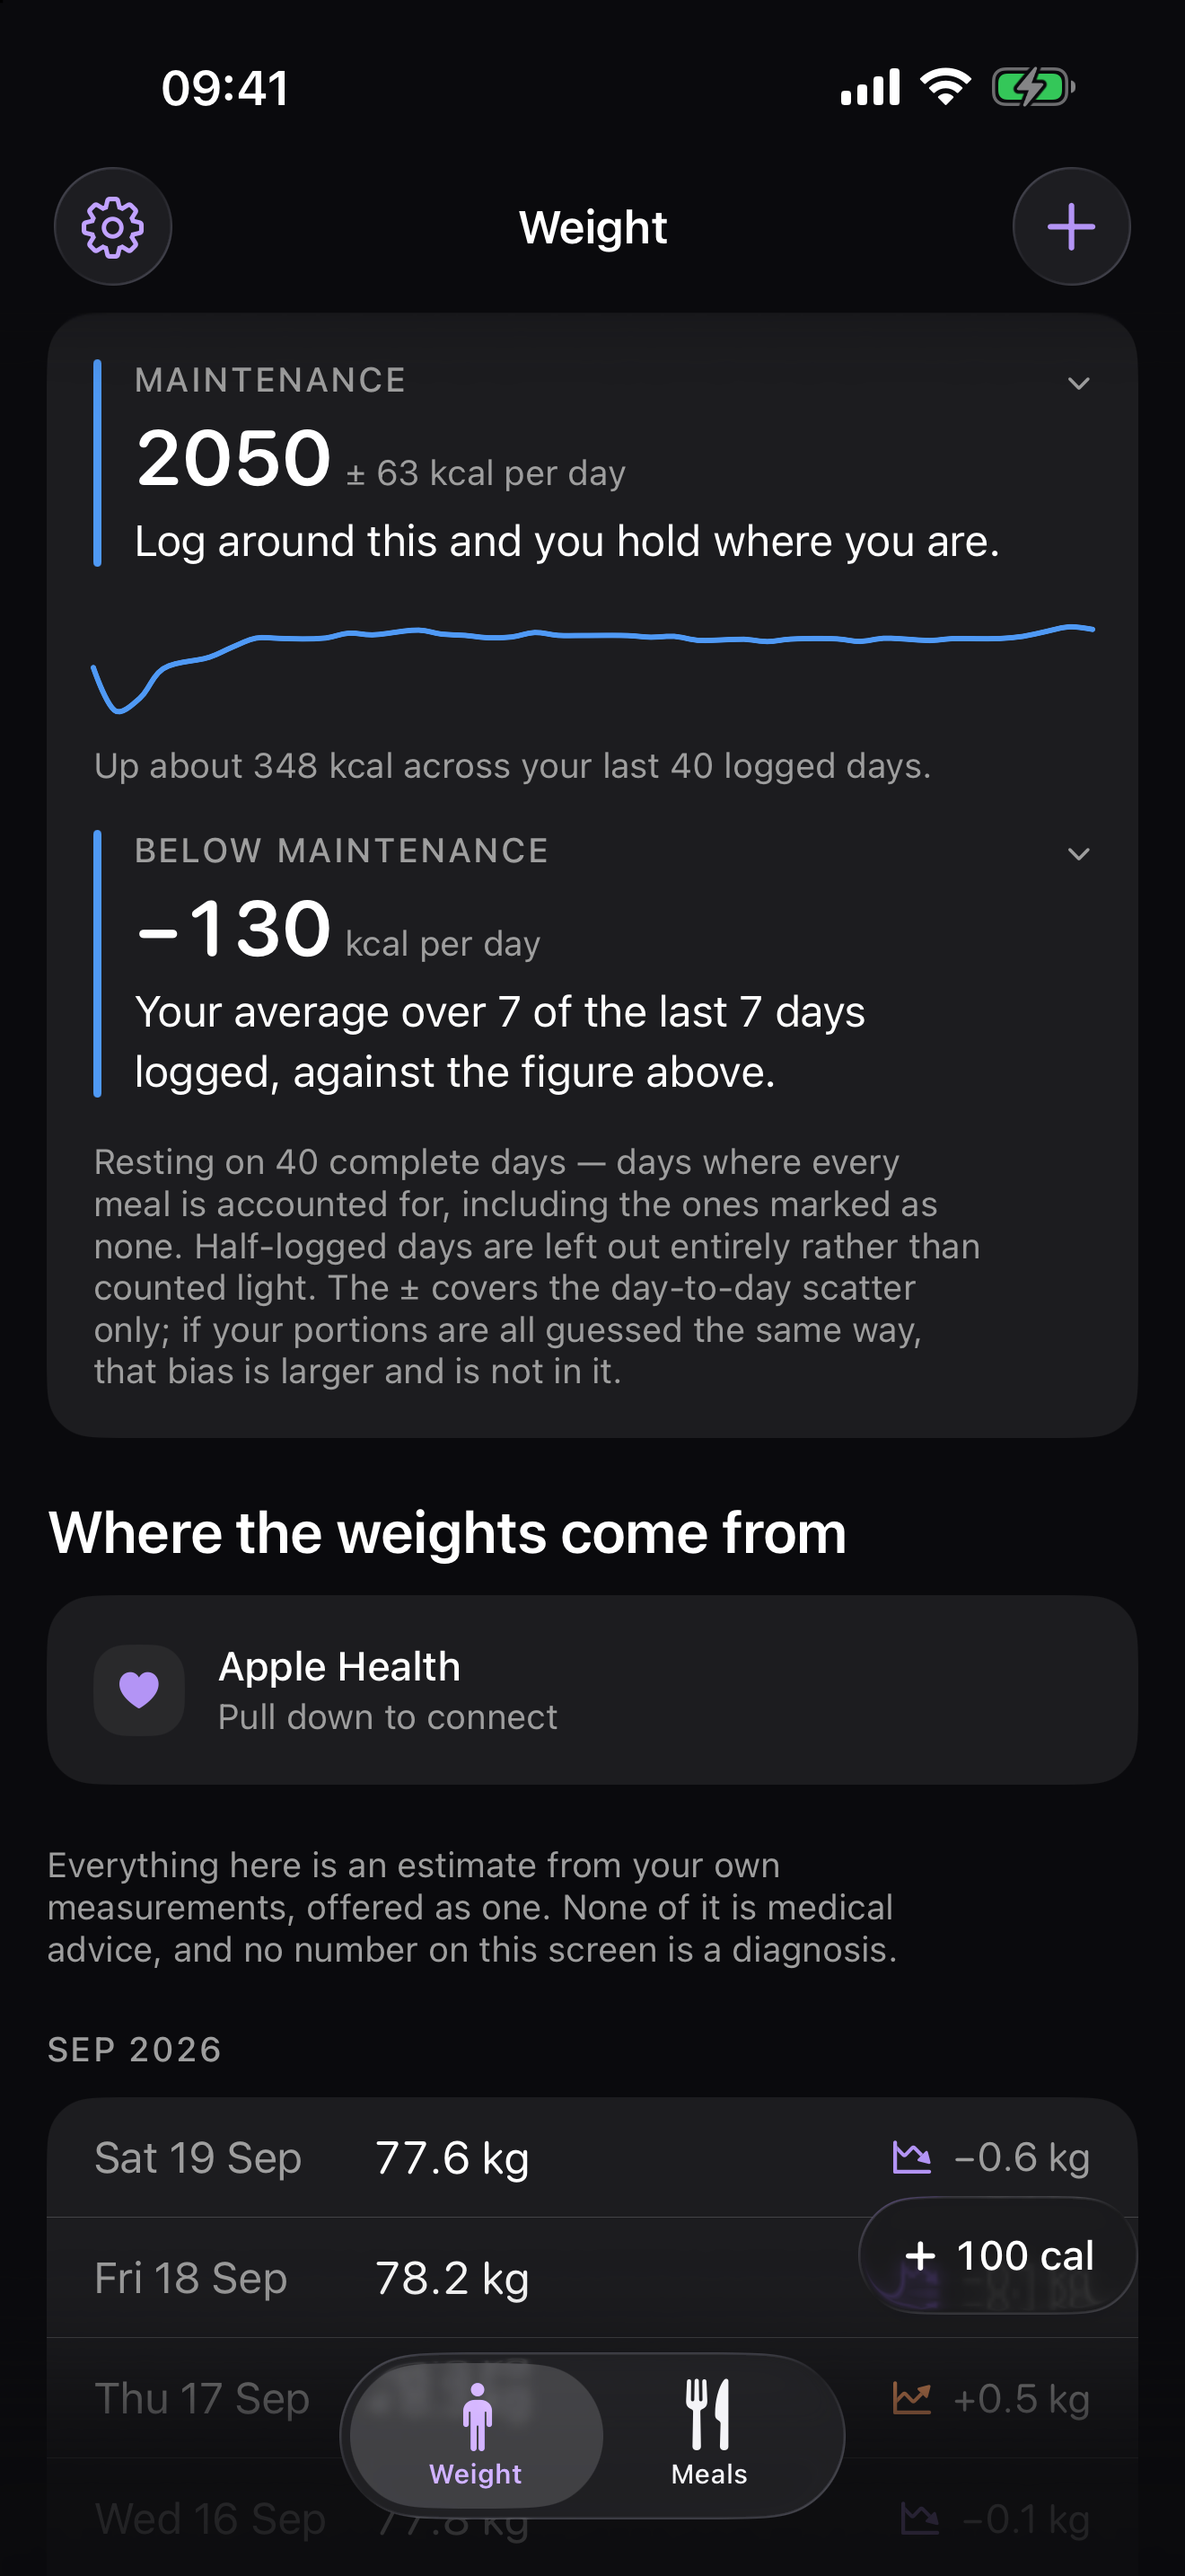
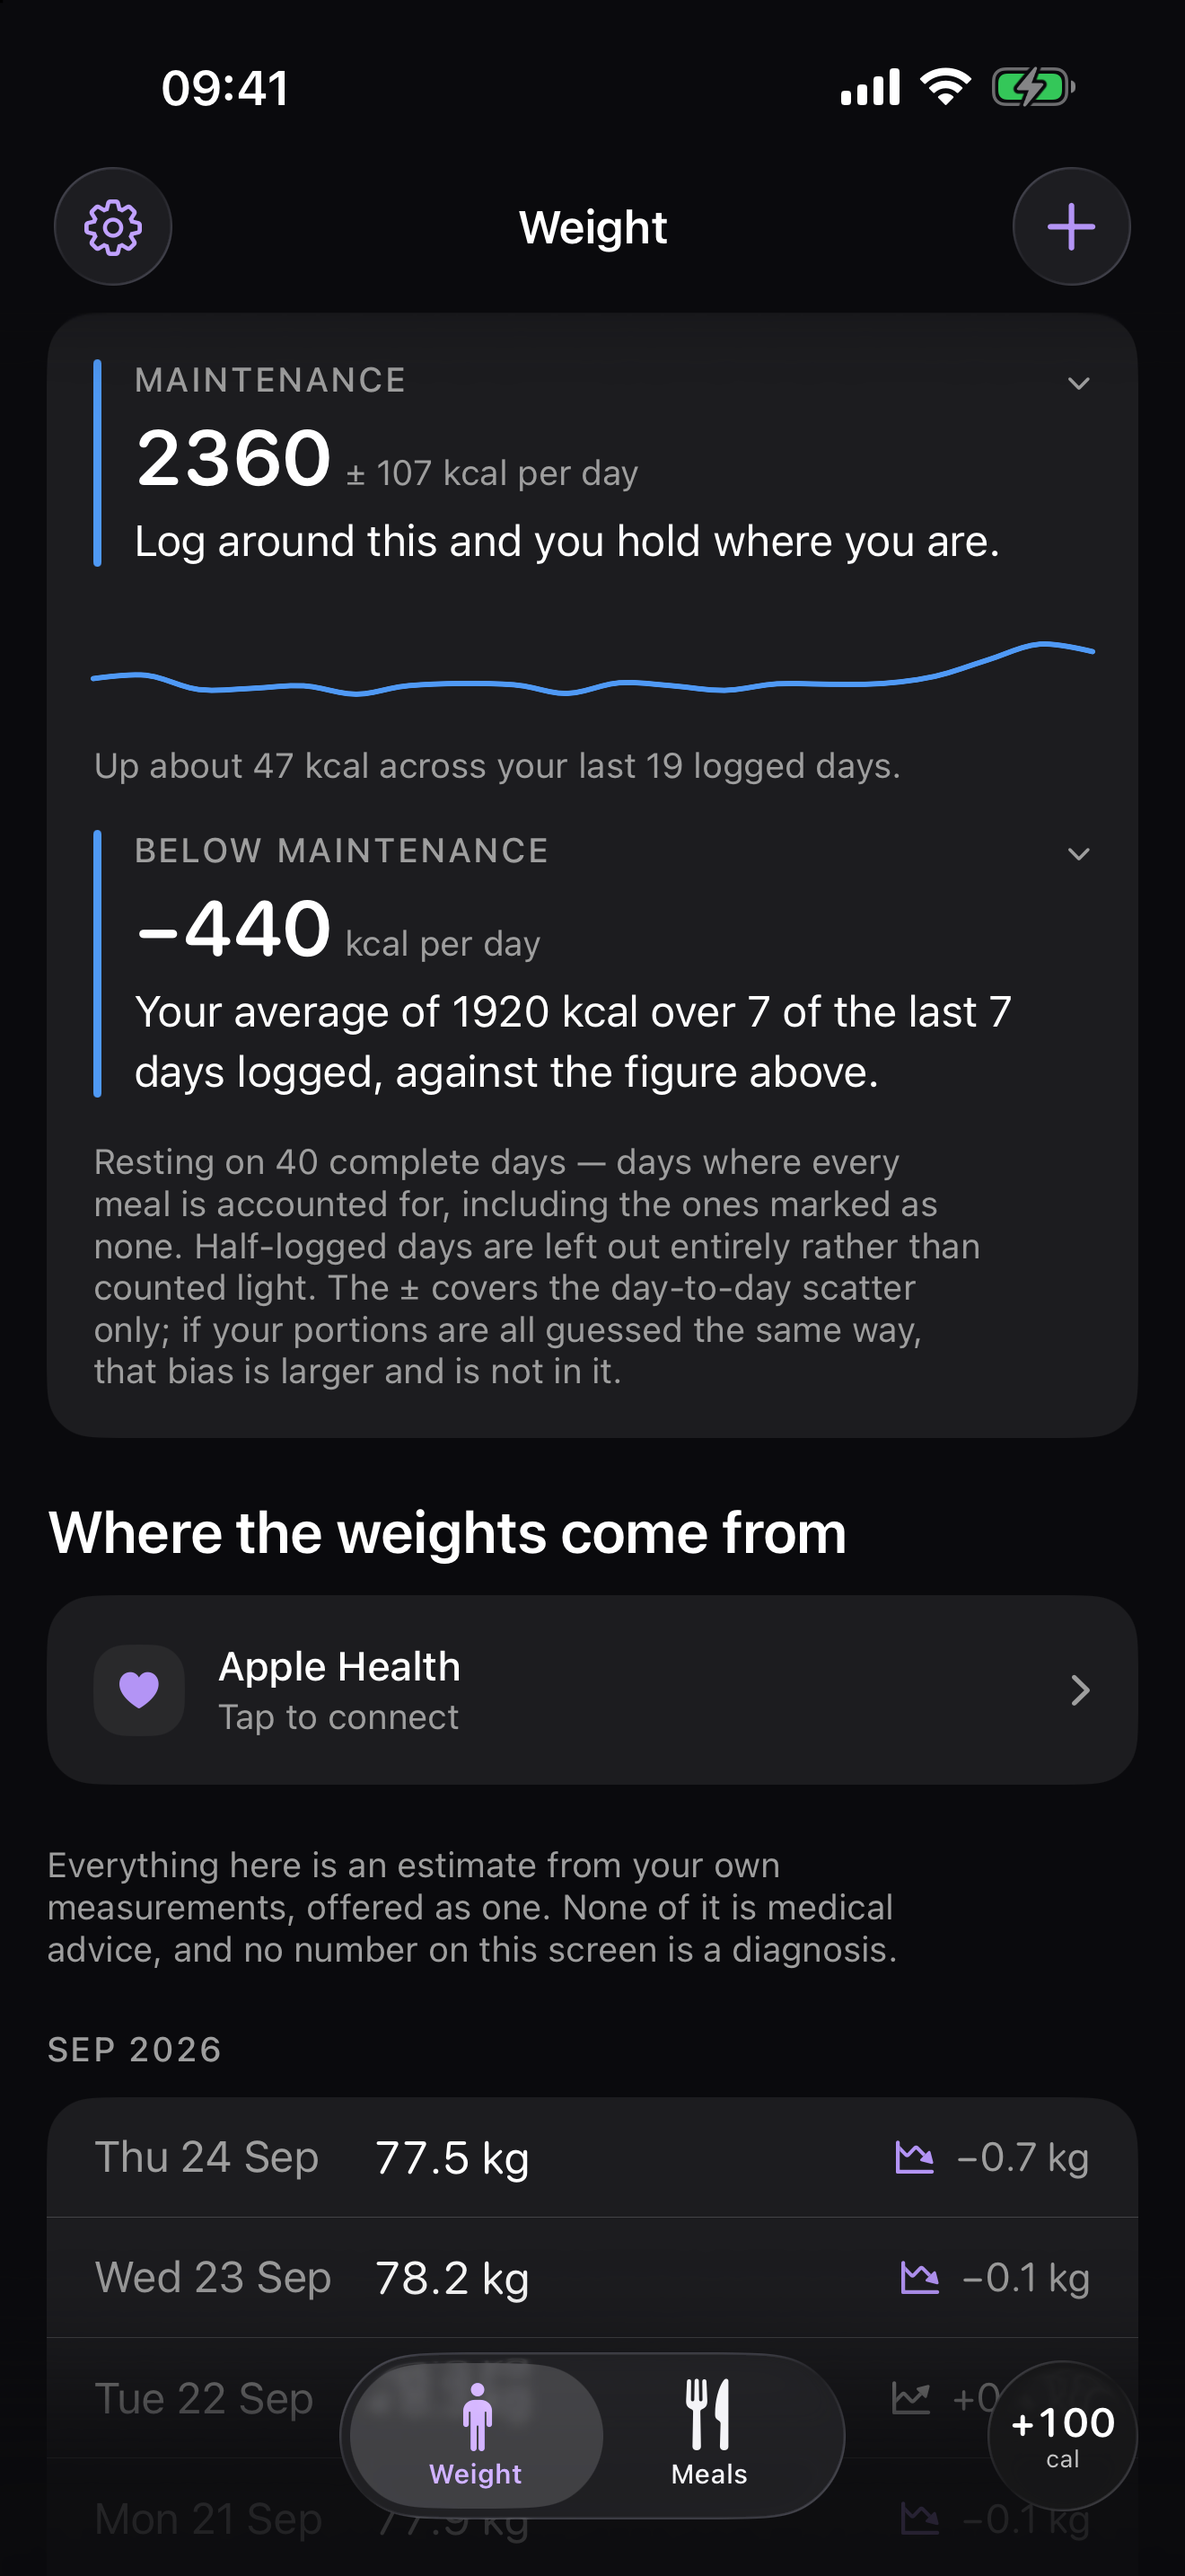
update health

diff --git a/index.html b/index.html
@@ -64,7 +64,7 @@
 <body>
 <main>
 
-  <p class="eyebrow">iPhone · Apple Health · no account</p>
+  <p class="eyebrow">iPhone &amp; iPad · Apple Health · no account</p>
   <h1>Calories, roughly.<br>Weight, precisely.</h1>
   <p class="lead">Ballpark Figure is a scale, made useful.</p>
 
@@ -73,15 +73,16 @@
   for tracking noisy signals — and draws the line underneath, with the rate of
   change it implies.</p>
 
-  <p>It logs food too, <strong>deliberately badly</strong>. You tap one of four
-  buckets for each meal — small, normal, large, huge — and snacks add up rather
+  <p>It logs food too, <strong>deliberately roughly</strong>. For each meal you
+  tick a portion — small, medium or large, with a nudge either way for a tiny or a
+  huge one — or <strong>none</strong>, if you skipped it. Snacks add up rather
   than replacing each other. That is the whole input. No barcode scanner, no food
   database, no photograph analysed by a model that returns “642 kcal” as though
   it had measured something.</p>
 
   <div class="shots">
     <img src="trend.png" alt="The weight screen: a filtered trend line over the raw scale readings, with the rate of change.">
-    <img src="meals.png" alt="The meals screen: one card per meal with small, normal, large and huge buckets.">
+    <img src="meals.png" alt="The meals screen: one card per meal with small, medium and large portions, and none.">
     <img src="maintenance.png" alt="The maintenance card: an energy expenditure derived from logged intake and the weight trend.">
   </div>
 
@@ -97,16 +98,20 @@
 
   <div class="card rule blue">
     <h3>A food log that admits it is guessing</h3>
-    <p>Four buckets per meal, calibrated once to what your own normal portion is
-    worth. A meal you skipped is one tap, and it is different from a meal you
-    forgot — the app needs to know which.</p>
+    <p>Three portions per meal, calibrated once to what your own medium portion
+    is worth. Three meals, or up to six if that is how you eat. A meal you skipped
+    is one tap, and it is different from a meal you forgot — the app needs to
+    know which.</p>
   </div>
 
   <div class="card rule blue">
     <h3>What you actually spend</h3>
-    <p>After a fortnight of complete days, Ballpark works out your energy
-    expenditure from your own logged intake against what the scale did, rather
-    than from a formula off your age and height. It is in the units of your own
+    <p>Ballpark works out your energy expenditure from your own logged intake
+    against what the scale did, rather than from a formula off your age and
+    height. The figure is there from day one, as an estimate from your body
+    weight; it becomes <em>provisional</em> as complete days build up, and
+    <em>measured</em> once your own data carries it — with its uncertainty printed
+    beside it at every stage. It is in the units of your own
     logging: if your portions run low, the figure runs low with them, and the two
     cancel when you log against it. The app says so, in those words, on the card
     itself.</p>
@@ -124,10 +129,12 @@
 
   <div class="card rule blue">
     <h3>Log without opening it</h3>
-    <p>Seven widgets for the Home and Lock Screen, including one for the
-    maintenance figure. Two Control&nbsp;Centre buttons. And Siri: <em>“log my
-    weight”</em>, <em>“log a normal meal”</em>. Tapping a bucket on a widget
-    writes straight to the log without the app ever opening.</p>
+    <p>Thirteen widgets for the Home and Lock Screen, including one for the
+    maintenance figure, one that records a weigh-in from the home screen, and one
+    that adds a hundred calories from the Lock Screen. Four Control&nbsp;Centre
+    buttons. And Siri: <em>“log my weight”</em>, <em>“log a medium meal”</em>.
+    Tapping a portion on a widget writes straight to the log without the app ever
+    opening.</p>
   </div>
 
   <div class="card rule">
@@ -137,6 +144,14 @@
     can be checked without re-running it. A local-only app owes you an exit more
     than a syncing one does, not less: there is no copy on a server to fall back
     on.</p>
+  </div>
+
+  <div class="card rule">
+    <h3>Free, and staying that way</h3>
+    <p>Every number the app shows, every meal and every widget is free. If
+    Ballpark is useful to you, you can support it with a one-time purchase, at
+    whichever of three prices suits you — all three do the same thing. As a
+    thank-you, it unlocks extra colour schemes and app icons. Nothing else.</p>
   </div>
 
   <h2>What it will not do</h2>
@@ -154,25 +169,34 @@
 
   <h2 id="support">Support</h2>
 
-  <h3>The maintenance figure has not appeared</h3>
-  <p>It needs fourteen days that carry both a weigh-in and a <em>complete</em>
-  meal log — every meal your own schedule expects, including the ones you mark
-  <strong>none</strong> because you skipped them. Half-logged days are left out entirely
-  rather than counted light, because a day missing its dinner looks exactly like
-  a day with a large deficit.</p>
+  <h3>The maintenance figure still says “estimated” or “provisional”</h3>
+  <p>It starts as an estimate from your body weight, turns provisional after
+  three <em>complete</em> days, and is marked measured once it rests on
+  twenty-one complete days and four weeks of weighing. A complete day is one
+  where every meal your own schedule expects is logged, including the ones you
+  mark <strong>none</strong> because you skipped them. Half-logged days are left
+  out entirely rather than counted light, because a day missing its dinner looks
+  exactly like a day with a large deficit.</p>
 
   <h3>My weight from my scale is not showing up</h3>
-  <p>Pull down on the Weight screen to check Apple Health. If nothing arrives,
+  <p>Readings from Apple Health arrive by themselves when you open the app, and
+  usually in the background too, though iOS decides when that runs. Pull down on
+  the Weight screen to check straight away. If nothing arrives,
   check <strong>Settings › Health › Data Access &amp; Devices › Ballpark</strong>
   and make sure reading weight is allowed. Manual entries always win over Health
   ones, so a reading you corrected by hand is never overwritten by a later
   import.</p>
 
   <h3>I recalibrated a meal and my history looks wrong</h3>
-  <p>When you set a new “normal” portion, the app offers to re-price the last
+  <p>When you set a new “medium” portion, the app offers to re-price the last
   fourteen days of meals that were logged with a bucket. Meals where you typed a
-  number are left alone. If you declined at the time, set the normal portion
+  number are left alone. If you declined at the time, set the medium portion
   again and accept the offer.</p>
+
+  <h3>I bought the supporter purchase on another device</h3>
+  <p>It follows your Apple Account, and Family Sharing, by itself. If the extra
+  colour schemes do not appear, open <strong>Settings › Support Ballpark</strong>
+  and tap <strong>Restore a previous purchase</strong>.</p>
 
   <h3>The numbers look small on my phone</h3>
   <p>Explanatory text follows your system text size
@@ -197,7 +221,7 @@
   this end.</p>
 
   <h2 id="privacy">Privacy policy</h2>
-  <p><em>Last updated: 19 September 2026.</em></p>
+  <p><em>Last updated: 24 September 2026.</em></p>
 
   <p>Ballpark Figure is a weight tracker with a simple food log. The short version:
   <strong>your data is yours, it syncs only through your own iCloud account, and
@@ -220,6 +244,9 @@
   through the CloudKit dashboard or any API, which is enforced by Apple’s
   infrastructure rather than by a promise on this page. Apple operates the
   storage and their own privacy policy governs it.</p>
+  <p>Your settings — portion calibrations, goal, units, colour scheme — are kept
+  in step the same way, through iCloud’s key-value storage, which is also held
+  in your own account.</p>
   <p>If you are not signed in, or you turn iCloud off for this app in
   Settings › [your name] › iCloud, everything stays on the device alone and the
   app works exactly as before.</p>
@@ -244,13 +271,21 @@
   samples from Apple Health so readings from a connected scale appear without
   retyping.</p>
   <p>The app <strong>never writes to Apple Health.</strong> This is enforced
-  three ways: there is no write method in the code, authorisation is requested
-  with an empty “share” set so iOS never offers write permission, and the
-  Info.plist deliberately omits <code>NSHealthUpdateUsageDescription</code>,
-  which means iOS would terminate the app if it ever attempted a write.</p>
+  two ways: there is no write method anywhere in the code, and authorisation is
+  requested with an empty “share” set —
+  <code>requestAuthorization(toShare: [], read: [bodyMass])</code> — so iOS
+  never offers write permission and never grants it.</p>
+  <p>The Info.plist does carry <code>NSHealthUpdateUsageDescription</code>, and
+  until 20 September 2026 this page said it deliberately did not. That was true,
+  and Apple’s upload validation rejects it: a writing purpose string is
+  required of every app holding the HealthKit entitlement, whether or not the
+  app writes. The string is there, it says the app does not write, and it is
+  never shown to you, because no write authorisation is ever requested.</p>
   <p>Health data read by the app is copied into the app’s own local storage so
-  the app still works if you deny or revoke permission. It is never transmitted
-  anywhere. You can revoke access at any time in <strong>Settings › Health ›
+  the app still works if you deny or revoke permission. With your permission,
+  iOS may wake the app briefly in the background when Health gains a new weight,
+  so your widgets stay current; that reading, too, stays on the device and in
+  your own iCloud. It is never transmitted anywhere else. You can revoke access at any time in <strong>Settings › Health ›
   Data Access &amp; Devices</strong>, or in <strong>Settings › Privacy &amp;
   Security › Health</strong>.</p>
 
@@ -266,6 +301,12 @@
   address to Safari; nothing
   about your log goes with the link. Once there you are subject to that site’s
   privacy policy, not this one.</p>
+
+  <h3>Purchases</h3>
+  <p>The optional supporter purchase is sold and processed by Apple through the
+  App Store. The developer receives no payment details and no information about
+  who bought it; the app checks whether it has been bought on the device itself,
+  through Apple’s StoreKit.</p>
 
   <h3>Notifications</h3>
   <p>If you switch on the weigh-in reminder, the app schedules a local
